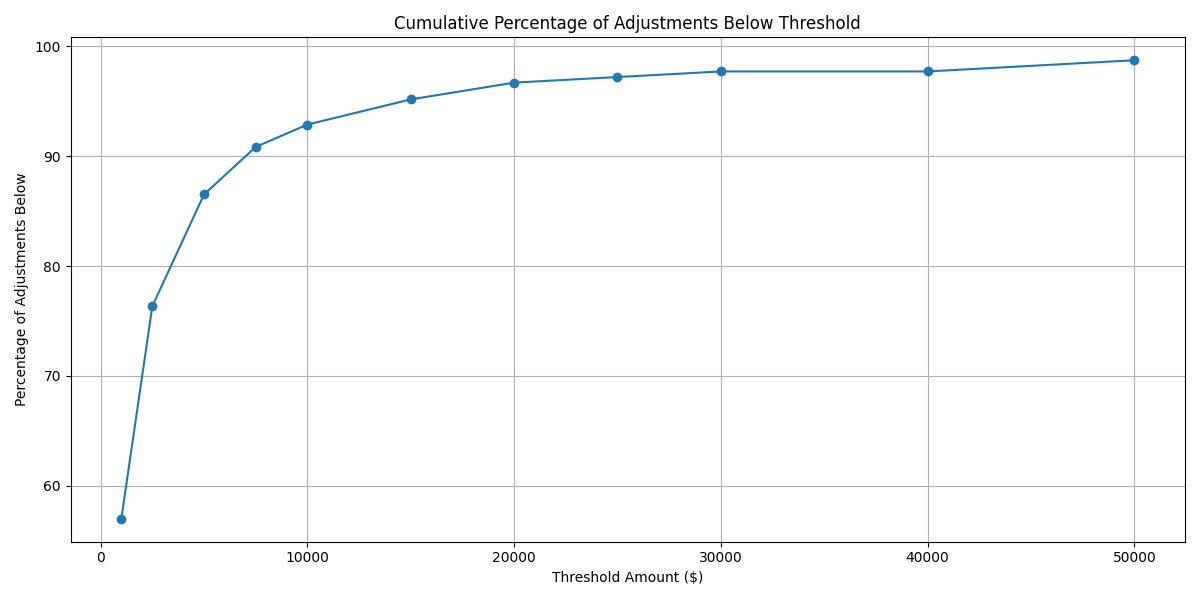
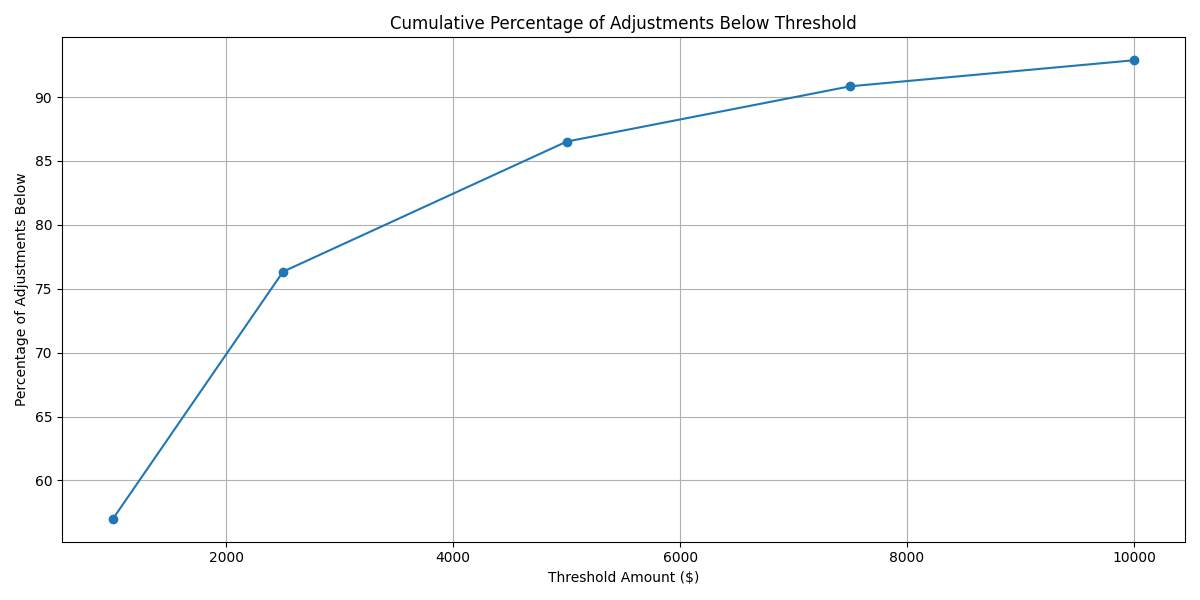
comment out analysis

diff --git a/stats/adjustment_analysis.py b/stats/adjustment_analysis.py
@@ -82,7 +82,7 @@ def analyze_financial_adjustments(file_path):
         })
     
     # Threshold analysis
-    thresholds = [1000, 2500, 5000, 7500, 10000, 15000, 20000, 25000, 30000, 40000, 50000]
+    thresholds = [1000, 2500, 5000, 7500, 10000]
     threshold_analysis = []
     
     for threshold in thresholds:
@@ -170,18 +170,18 @@ def display_results(results):
         print(f"${threshold['threshold']}: {threshold['count_below']} adjustments below ({threshold['percentage_below']:.2f}%)")
     
     # Natural breaks
-    print("\n=== SIGNIFICANT GAPS IN DATA ===")
-    for i, gap in enumerate(results['gaps'][:5]):  # Top 5 gaps
-        print(f"Gap between ${gap['lower_value']:.2f} and ${gap['upper_value']:.2f}: ${gap['gap']:.2f} ({gap['gap_percentage']:.2f}%)")
+    # print("\n=== SIGNIFICANT GAPS IN DATA ===")
+    # for i, gap in enumerate(results['gaps'][:5]):  # Top 5 gaps
+    #     print(f"Gap between ${gap['lower_value']:.2f} and ${gap['upper_value']:.2f}: ${gap['gap']:.2f} ({gap['gap_percentage']:.2f}%)")
     
     # Recommendations
-    print("\n=== RECOMMENDED THRESHOLDS ===")
-    for rec in results['recommended']:
-        print(f"{rec['level']} threshold: ${rec['value']} (covers {rec['coverage']:.2f}% of adjustments)")
+    # print("\n=== RECOMMENDED THRESHOLDS ===")
+    # for rec in results['recommended']:
+    #     print(f"{rec['level']} threshold: ${rec['value']} (covers {rec['coverage']:.2f}% of adjustments)")
     
-    print("\n=== RECOMMENDATION ===")
-    print("Based on the analysis, a ceiling of $xx,xxx is recommended.")
-    print("This threshold would cover approximately x% of all adjustments,")
+    # print("\n=== RECOMMENDATION ===")
+    # print("Based on the analysis, a ceiling of $xx,xxx is recommended.")
+    # print("This threshold would cover approximately x% of all adjustments,")
 
 # Optional: Create simple visualization
 def plot_distribution(results):
